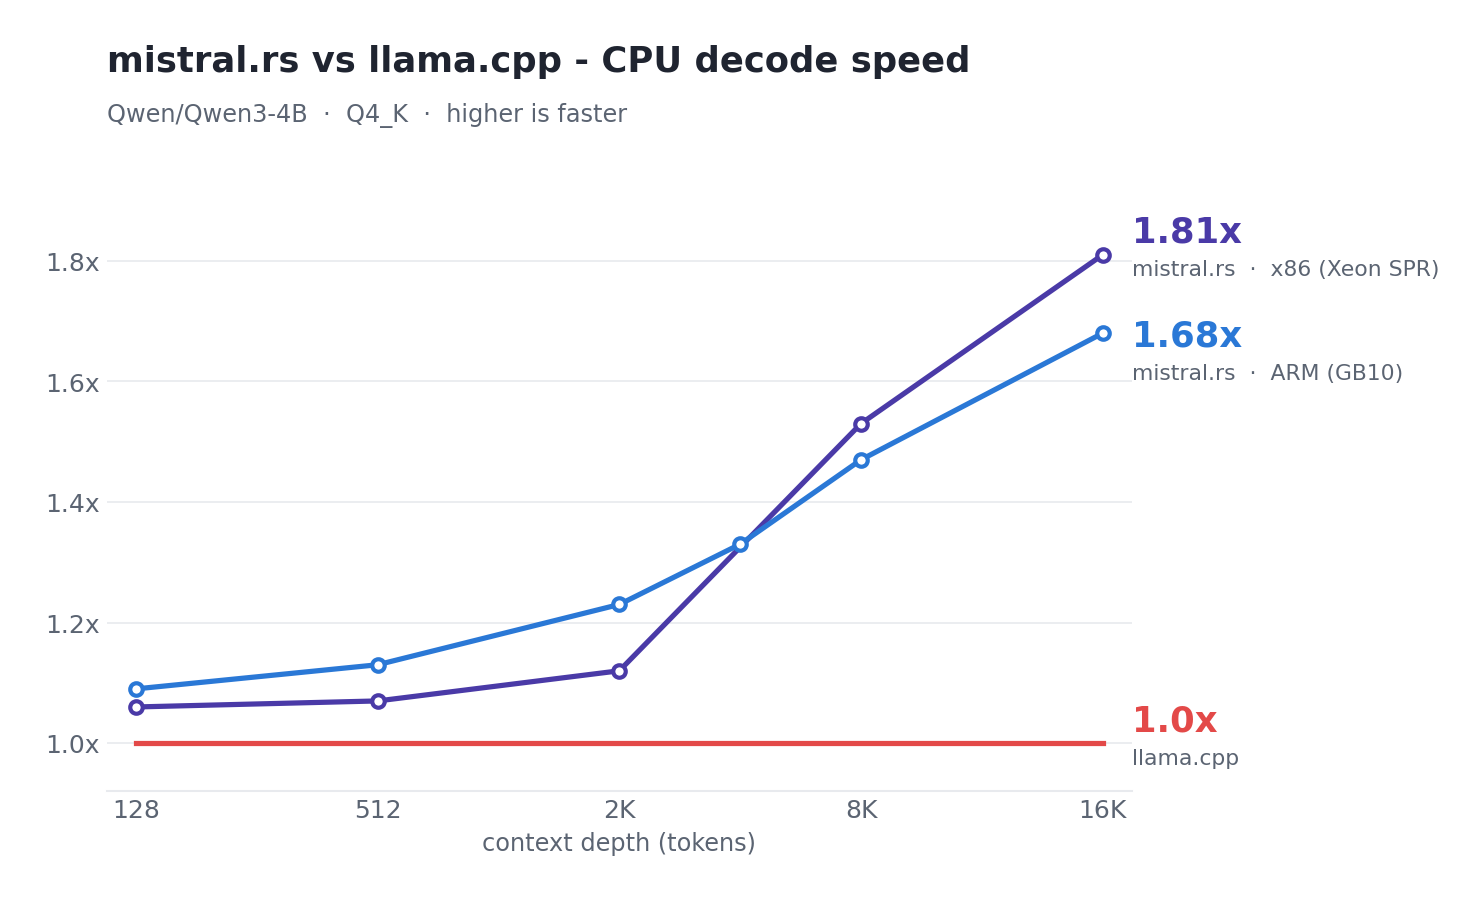
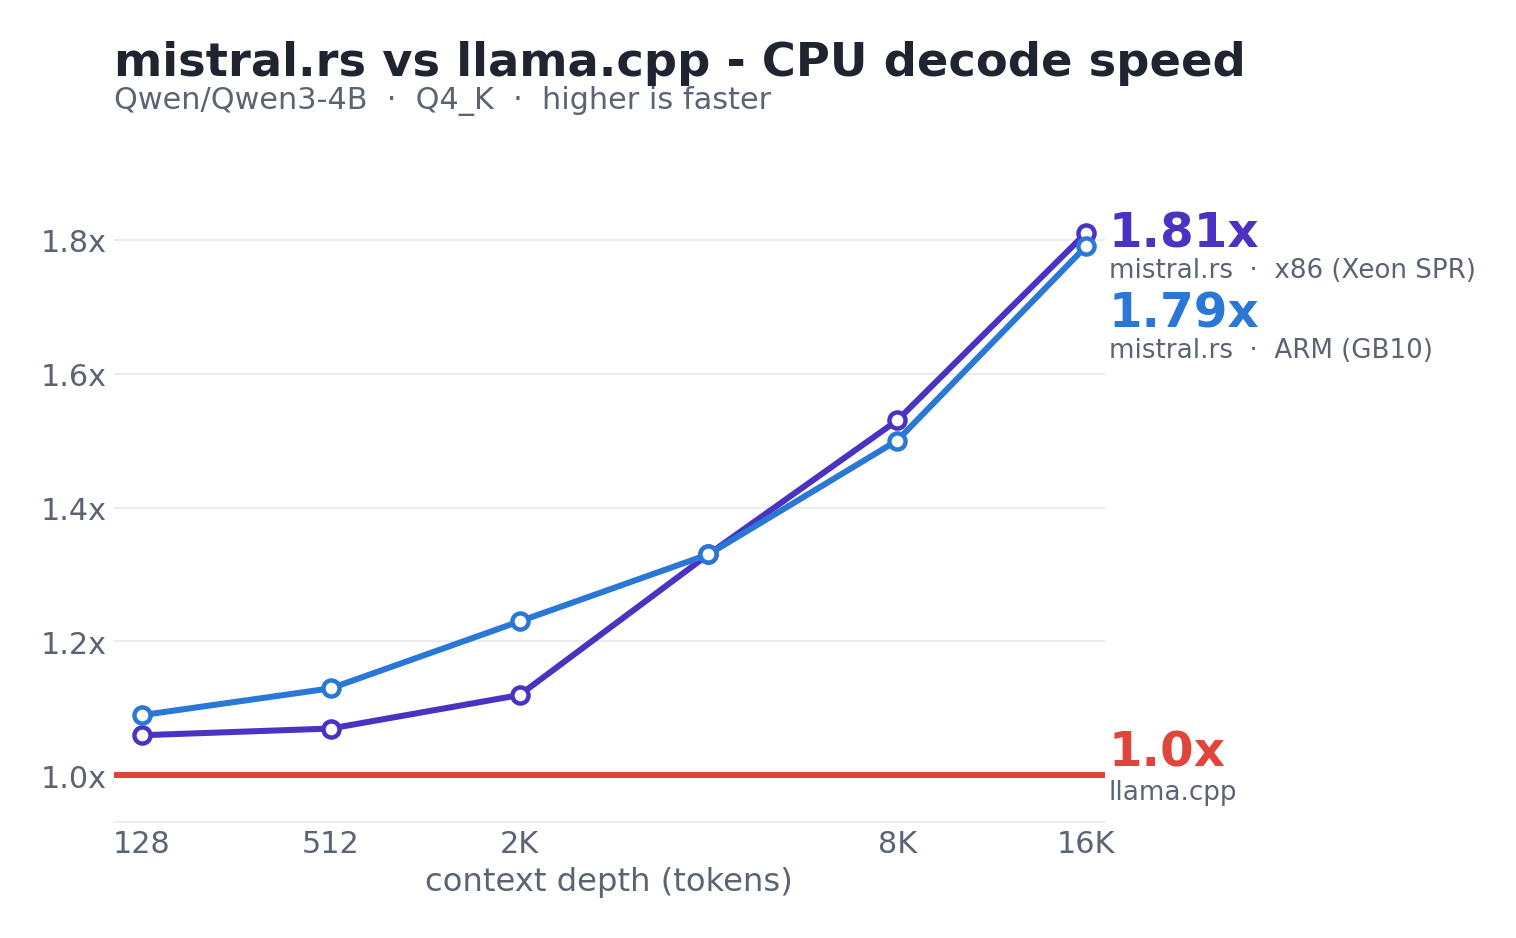
docs(release): aarch64 pv v2 numbers, hero chart 1.79x arm endpoint

diff --git a/releases/v0.9.0/report.md b/releases/v0.9.0/report.md
@@ -246,6 +246,18 @@ Follow-ups: AMX epilogue amortization, a non-AMX comparison point, an ARM-native
 bandwidth design, and the q8_0 shallow-decode cell (llama.cpp's q8_0 gemv sustains a few percent more effective
 bandwidth per core; block-pairing landed, the rest needs deeper streaming work).
 
+## Late addition: register-held P.V on aarch64
+
+After the x86 register-tiled P.V trick landed, the aarch64 port took two attempts: a direct
+copy regressed 9-13% at depth, and profiling showed the culprit was a per-position p == 0 skip
+branch (never taken in decode, mispredicted every position), not the V re-streaming the smaller
+NEON register file forces. The branch-free version (accumulator pinned in 64-f32 register
+chunks, masked positions zeroed before the sweep) lands d8192 22.8 -> 23.3 and d16384
+15.6 -> 16.6 t/s, bringing the ARM deep-decode ratio to 1.79x - within a hair of the x86 1.81x.
+In-engine decode attention now runs at ~68 GB/s effective on GB10 against a ~130 GB/s machine
+ceiling; the remaining gap (scoring-phase horizontal reductions, second V pass) is scoped for
+the next release.
+
 ## Build notes
 
 All benchmarks are source builds of both engines on the same machine (llama.cpp with
@@ -279,8 +291,8 @@ All values are tokens per second; speedup is mistral.rs divided by llama.cpp in 
 | 512 | 38.9 | 34.4 | 1.132x |
 | 2048 | 34.1 | 27.6 | 1.234x |
 | 4096 | 29.4 | 22.0 | 1.333x |
-| 8192 | 22.8 | 15.6 | 1.466x |
-| 16384 | 15.6 | 9.3 | 1.678x |
+| 8192 | 23.3 | 15.6 | 1.498x |
+| 16384 | 16.6 | 9.3 | 1.785x |
 
 ##### Q6_K Prefill
 